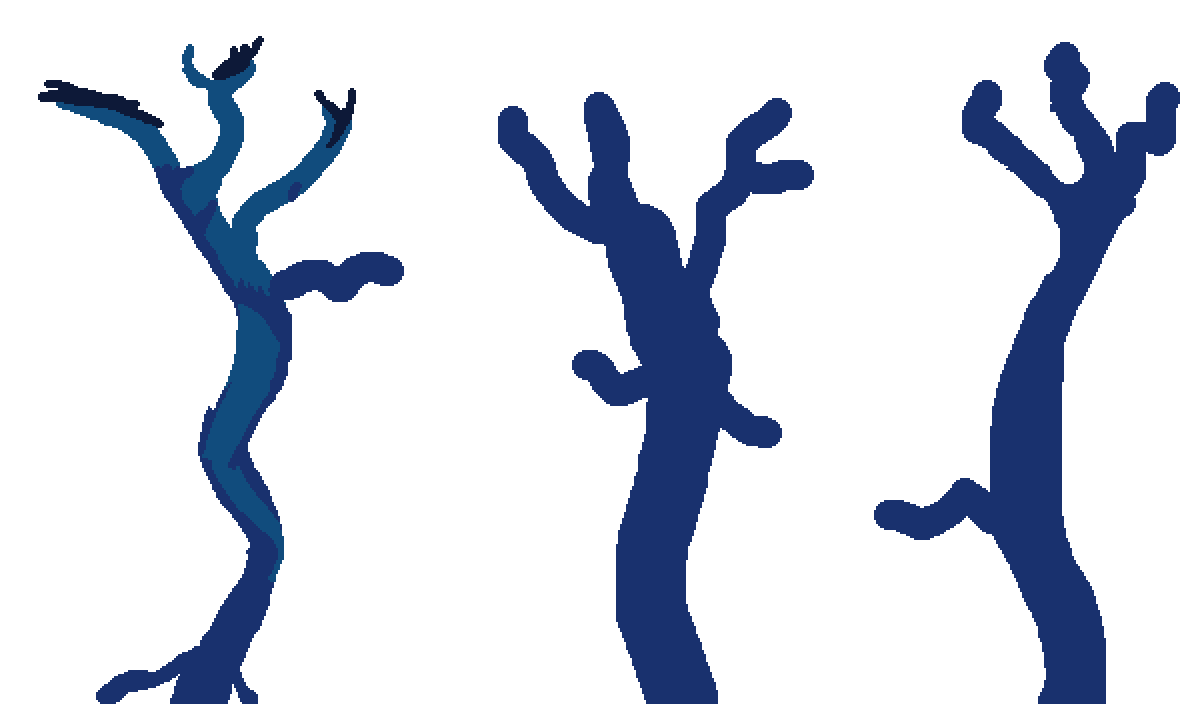
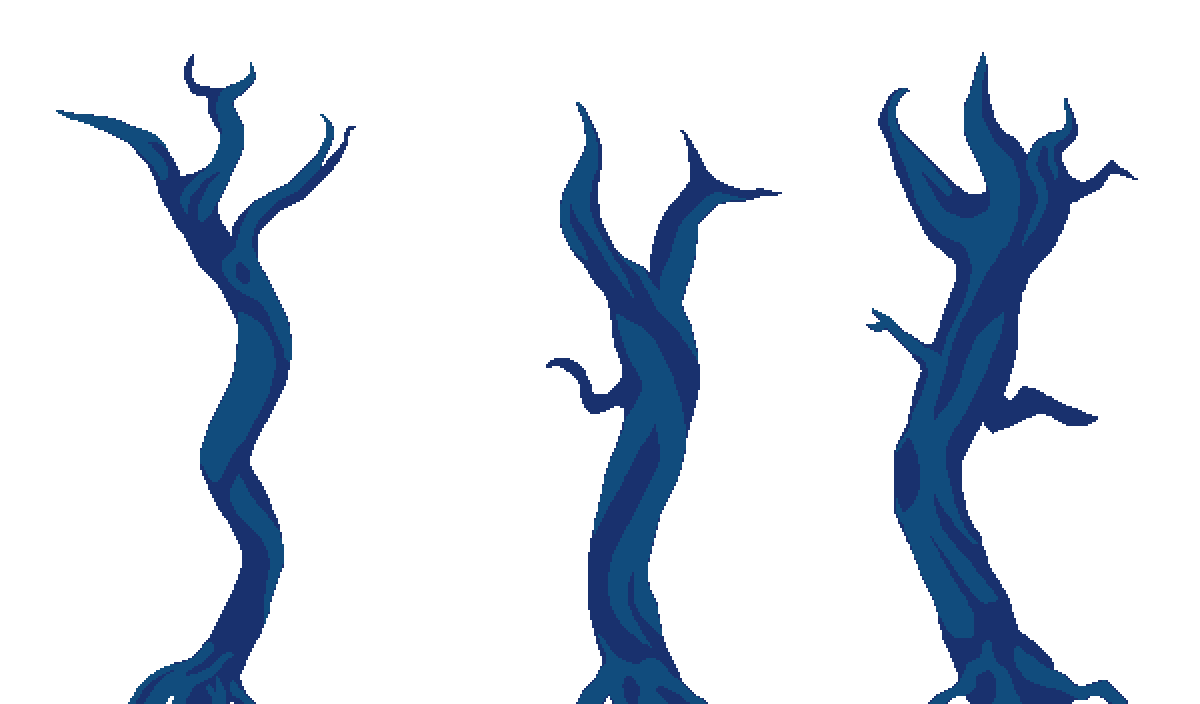
Tiny update to bluegrass tilesheet for smoother tiling, updated roundwoods far trees with finished set.

diff --git a/src/object/bluegrass.js b/src/object/bluegrass.js
@@ -30,9 +30,9 @@ export default {
 	sqrock: decal('tile.rwbgrocks', 0, 0, 320, 144),
 	rnrock: decal('tile.rwbgrocks', 352, 32, 224, 112),
 
-	fartree1: decal('tile.rwfartrees', 32, 32, 384, 672),
-	fartree2: decal('tile.rwfartrees', 480, 64, 342, 640),
-	fartree3: decal('tile.rwfartrees', 864, 32, 320, 672),
+	fartree1: decal('tile.rwfartrees', 32, 32, 352, 672),
+	fartree2: decal('tile.rwfartrees', 512, 96, 288, 608),
+	fartree3: decal('tile.rwfartrees', 864, 32, 288, 672),
 
 	bgcanopy: decal('tile.rwbgcanopy', 32, 0, 1312, 416),
 };
